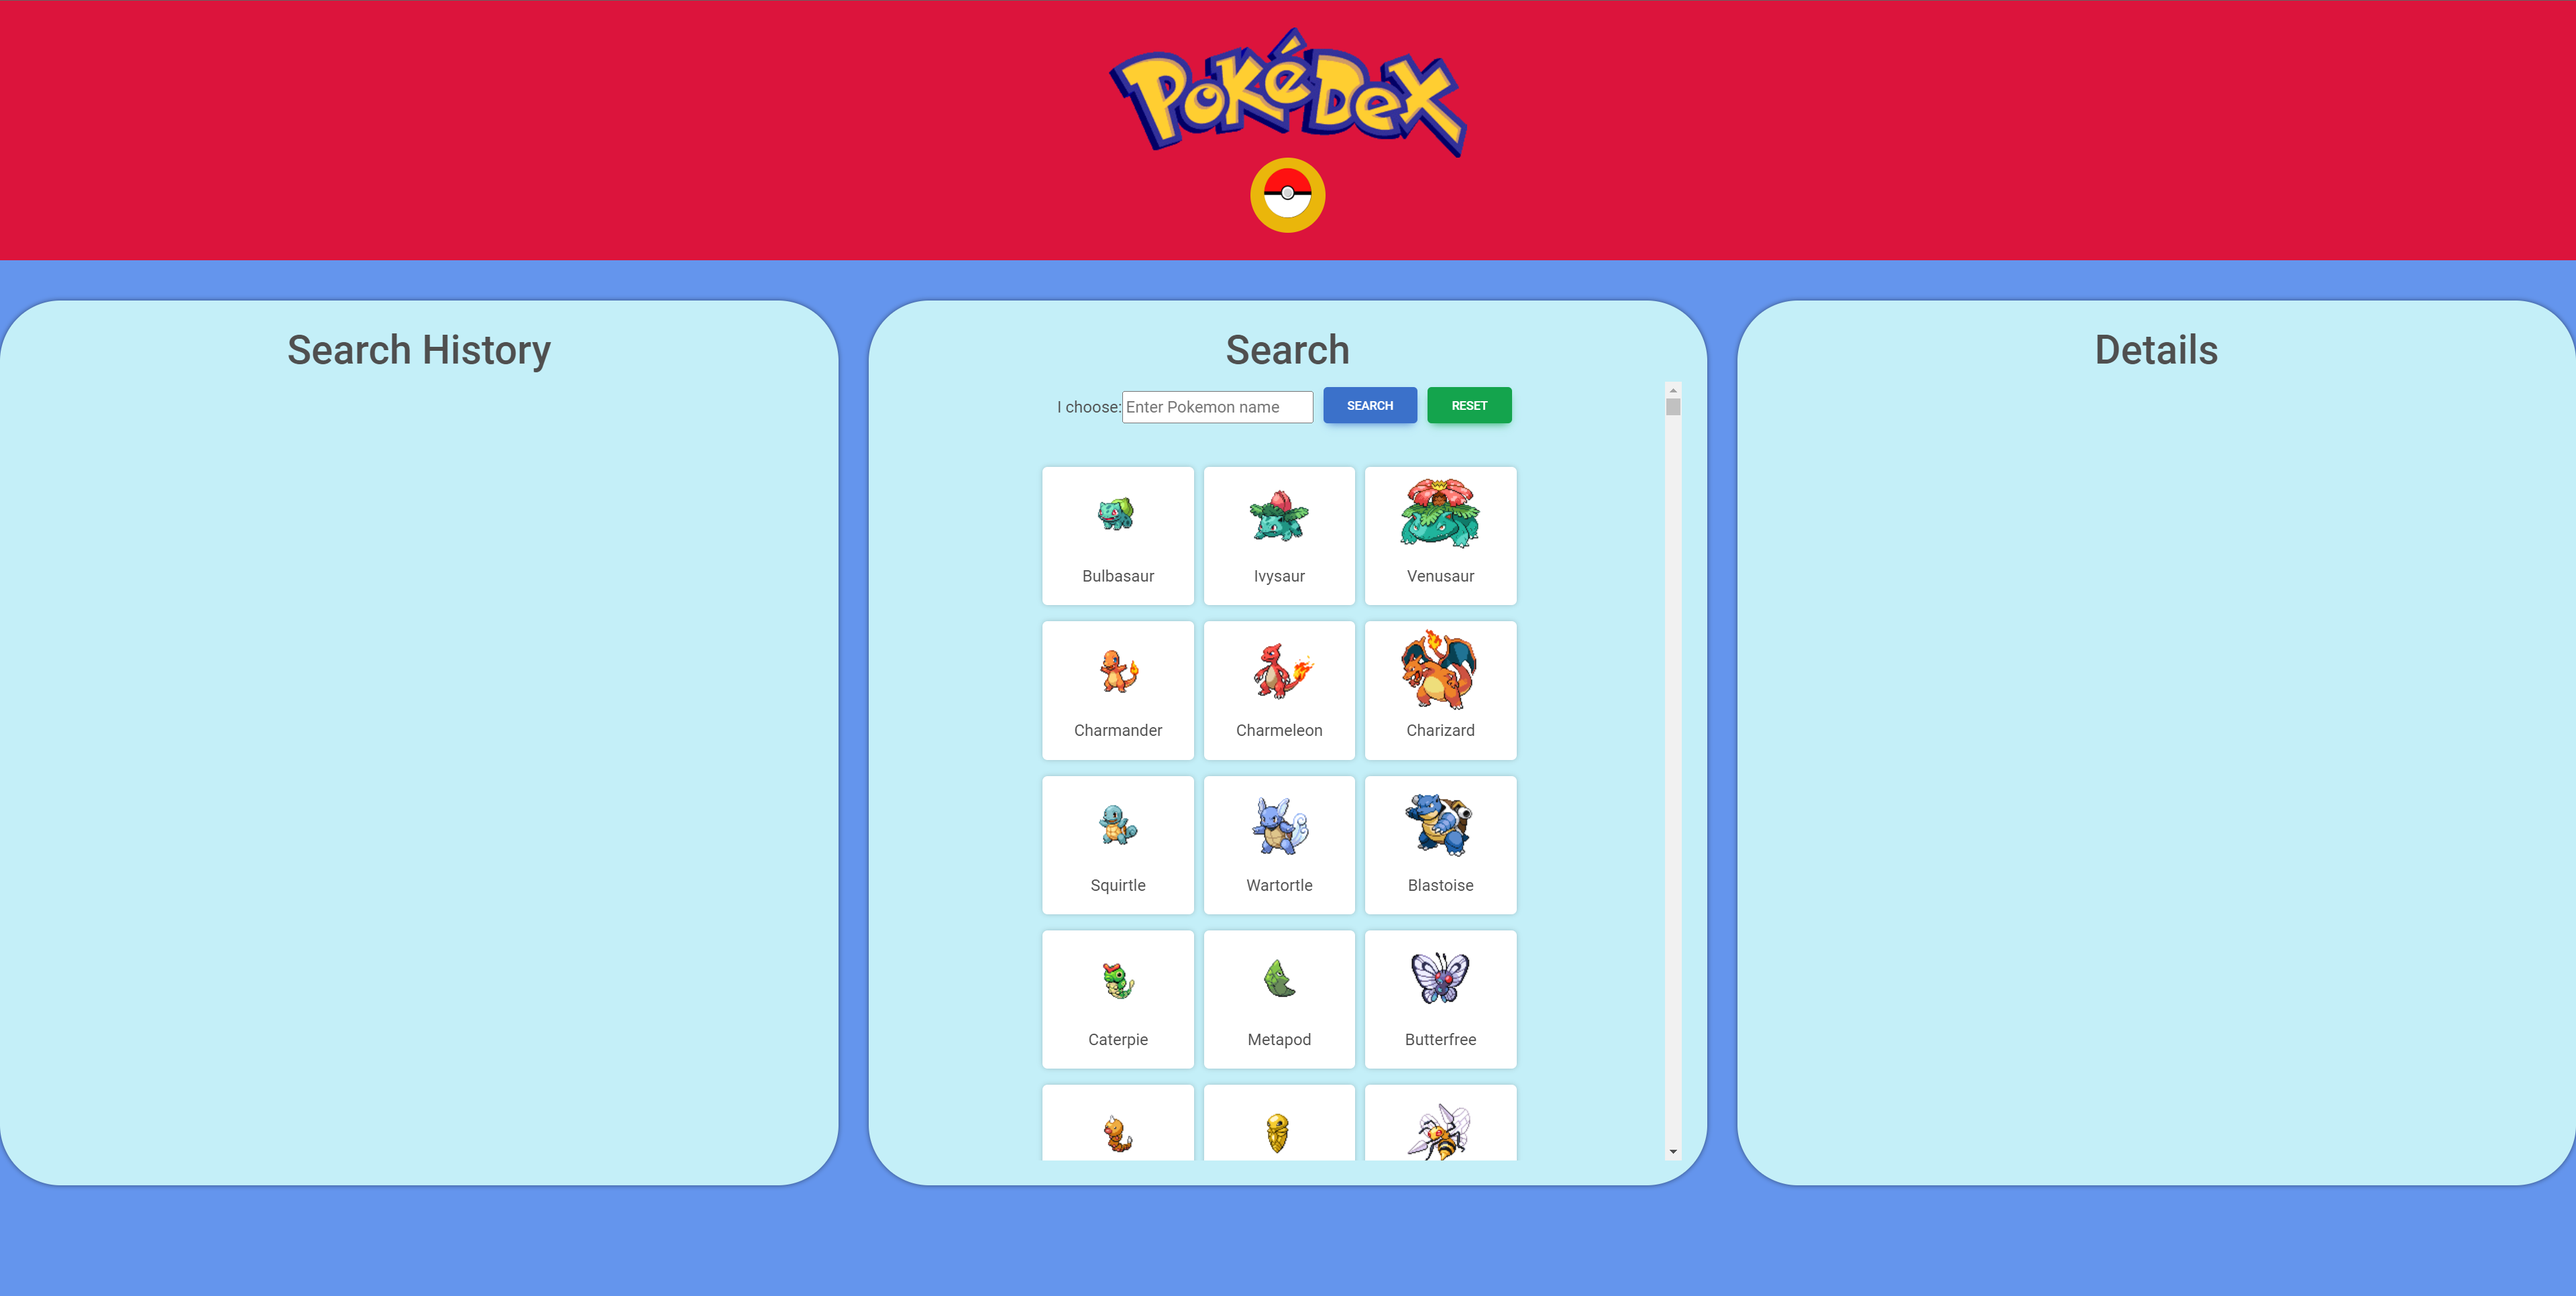
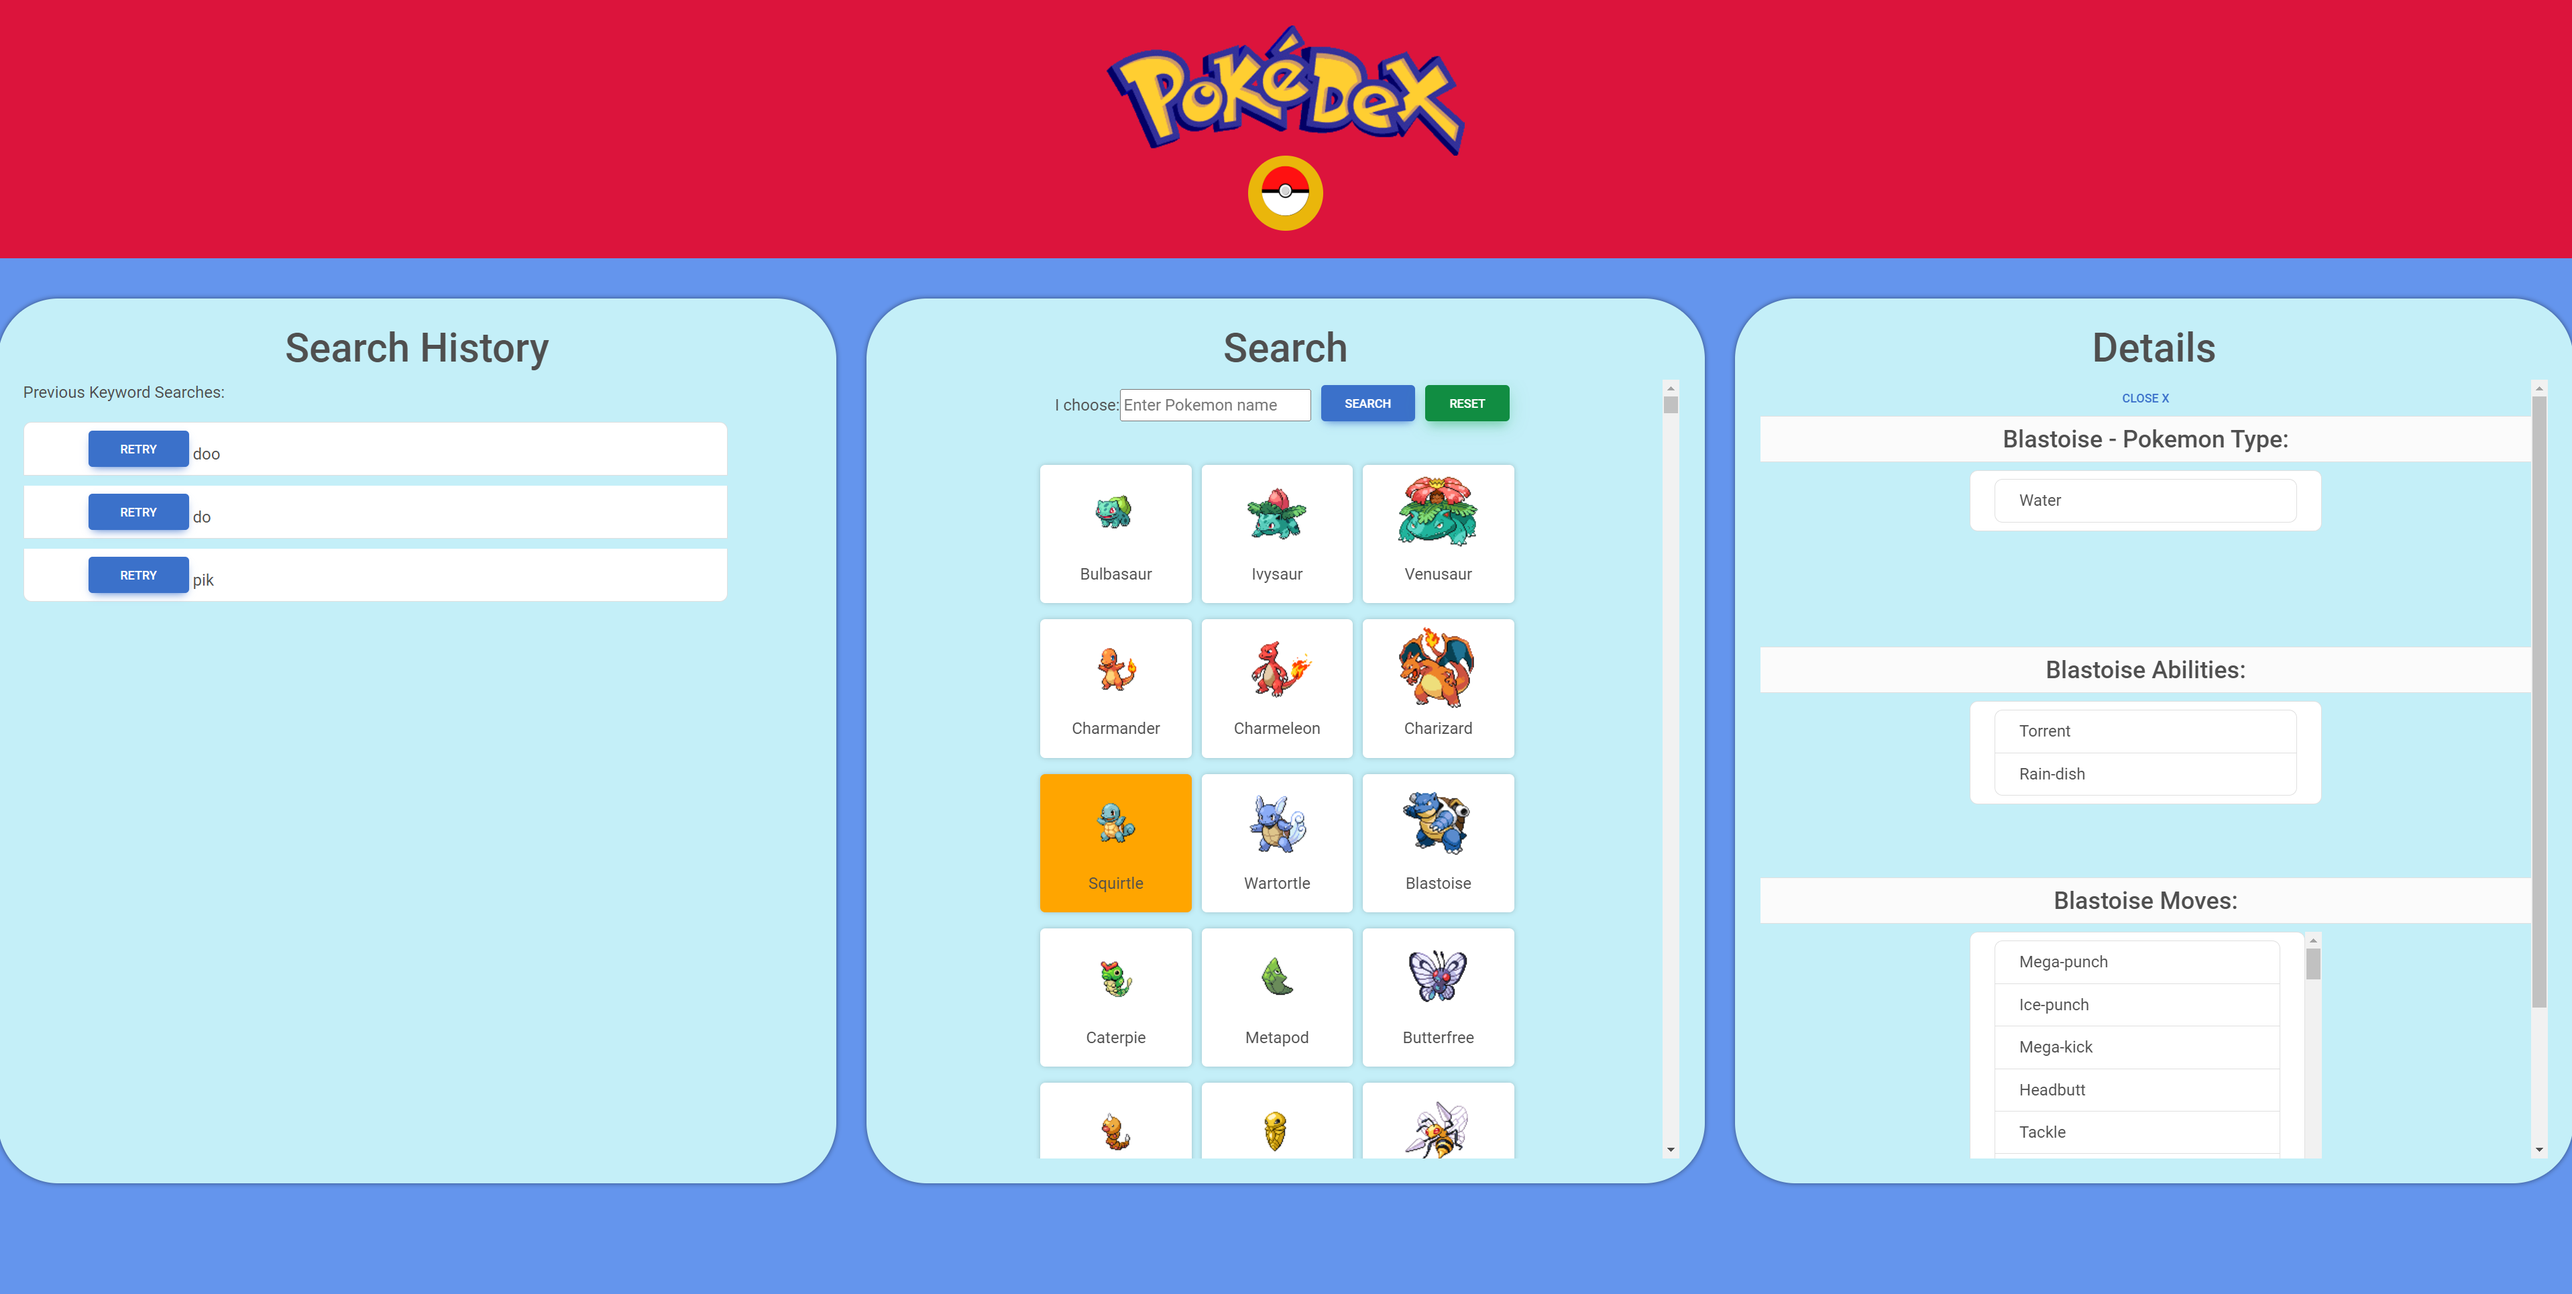
Getting stuff for readme

diff --git a/src/features/pokedex/SearchPokedexList.tsx b/src/features/pokedex/SearchPokedexList.tsx
@@ -115,7 +115,6 @@ const SearchPokedexList = () => {
       <MDBBtn className={styles.pokebtn} onClick={() => handleSearch(searchQuery)}>Search</MDBBtn>
       <MDBBtn className={styles.pokebtn} onClick={() => resetQuery()} color="success">Reset</MDBBtn>
     </div>
-
     <div id="searchresults" className={styles.row}>
       <div className={styles.resultwrapper}>
         {filteredPokemon.map((pokemon: Pokemon, index: number) => (

diff --git a/README.md b/README.md
@@ -2,6 +2,44 @@
 
 ![App_Image](https://github.com/russ134/pokedex/blob/main/src/images/appstuff/pokedexscreenshot.png)
 
+## How To:
+
+## Pokemon Search and Search Bar
+
+You can search for any of the 905 Pokemon dynamically via typing have the results change based on key word. When you hit the "Search button your keyord is saved in the "Search History", allowing you run the same search again via the "Retry" button.
+
+For indication when you hover over a Pokemon it highlights orange, and when you click on 
+
+![App_Image](https://github.com/russ134/pokedex/blob/main/src/images/appstuff/Search.png)
+
+![App_Image](https://github.com/russ134/pokedex/blob/main/src/images/appstuff/Searchbar.png)
+
+### Pokemon Details
+
+Your intended Pokemon its Type, Abilities, and Moves are sectional displayed in the "Details" section. You can also close the detailing view via the close button.
+
+
+![App_Image](https://github.com/russ134/pokedex/blob/main/src/images/appstuff/Details.png)
+
+### Search History
+When you hit the "Search button your keyord is saved in the "Search History", allowing you run the same search again via the "Retry" button. It also lists all previous searches
+
+![App_Image](https://github.com/russ134/pokedex/blob/main/src/images/appstuff/Search History.png)
+
+## Enhancements TODO and Complete:
+
+1. Evolved Forms and Evolution Chain - Add the Pokemon Evolution as part of "Details" section
+
+2. Creation of automation tests
+
+3. Pagination - I opted for loading all 905 to simulate a collection instead of pagination the 20 Pokemon per API call. Wanted to showcase the Pokemon
+
+4. Freeze "Search Bar" and the resulting Pokemon scroll underneath
+
+5. More design work to make the app look even more like a Pokedex...
+
+## Learn More
+
 This project was bootstrapped with [Create React App](https://github.com/facebook/create-react-app), using the [Redux](https://redux.js.org/) and [Redux Toolkit](https://redux-toolkit.js.org/) TS template.
 
 ## Available Scripts
@@ -40,28 +78,6 @@ If you aren’t satisfied with the build tool and configuration choices, you can
 Instead, it will copy all the configuration files and the transitive dependencies (webpack, Babel, ESLint, etc) right into your project so you have full control over them. All of the commands except `eject` will still work, but they will point to the copied scripts so you can tweak them. At this point you’re on your own.
 
 You don’t have to ever use `eject`. The curated feature set is suitable for small and middle deployments, and you shouldn’t feel obligated to use this feature. However we understand that this tool wouldn’t be useful if you couldn’t customize it when you are ready for it.
-
-## Enhancements TODO and Complete:
-
-1. Evolved Forms and Evolution Chain - Add the Pokemon Evolution as part of "Details" section
-
-2. Creation of automation tests
-
-3. Pagination - I opted for loading all 905 to simulate a collection instead of pagination the 20 Pokemon per API call. Wanted to showcase the Pokemon
-
-4. Freeze "Search Bar" and the resulting Pokemon scroll underneath
-
-5. More design work to make the app look even more like a Pokedex...
-
-## How To:
-
-### 'Pokemon Search'
-
-### 'Pokemon Details'
-
-### Search History'
-
-## Learn More
 
 You can learn more in the [Create React App documentation](https://facebook.github.io/create-react-app/docs/getting-started).
 
